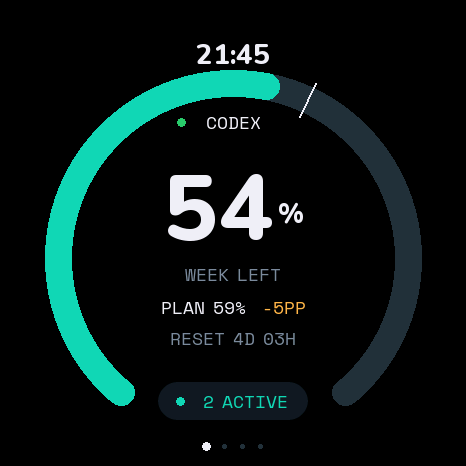
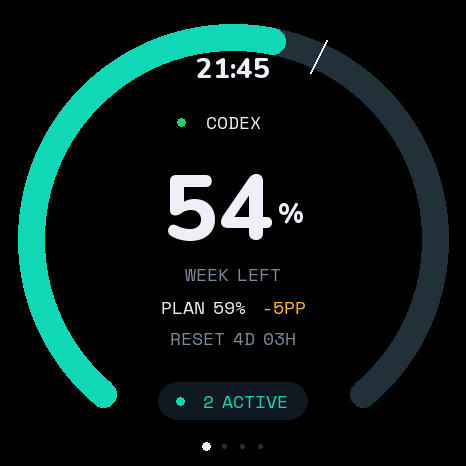
fix: keep clock inside quota arc

Changed region(s): [[0.03, 0.03, 0.9614, 0.8712]]

diff --git a/Tests/TokenLinkDeviceTests/WatchFaceStateTests.swift b/Tests/TokenLinkDeviceTests/WatchFaceStateTests.swift
@@ -19,7 +19,8 @@ private func faceStateWindow(
   _ id: String,
   label: String,
   remaining: Double,
-  resetsAt: Date? = nil
+  resetsAt: Date? = nil,
+  durationSeconds: Int? = nil
 ) -> QuotaWindow {
   QuotaWindow(
     id: id,
@@ -28,7 +29,8 @@ private func faceStateWindow(
     remainingPercent: remaining,
     remainingCount: nil,
     limitCount: nil,
-    resetsAt: resetsAt)
+    resetsAt: resetsAt,
+    durationSeconds: durationSeconds)
 }
 
 @Test func canonicalFaceStatePreservesSemanticDataBeforeWireCaps() {
@@ -41,7 +43,9 @@ private func faceStateWindow(
           faceStateWindow("5h", label: "Five hours", remaining: 72),
           faceStateWindow("weekly", label: "Weekly", remaining: 61),
           faceStateWindow("monthly", label: "Monthly", remaining: 55),
-          faceStateWindow("custom", label: "Custom", remaining: 40),
+          faceStateWindow(
+            "custom", label: "Custom", remaining: 40,
+            durationSeconds: 12 * 3_600),
         ]),
       faceStateSnapshot(
         .kimi,
@@ -60,7 +64,7 @@ private func faceStateWindow(
   #expect(state.providers[0].windows[0].label == "Five hours")
   #expect(state.providers[0].windows[0].durationSeconds == 5 * 3_600)
   #expect(state.providers[0].windows[1].durationSeconds == 7 * 86_400)
-  #expect(state.providers[0].windows[3].durationSeconds == nil)
+  #expect(state.providers[0].windows[3].durationSeconds == 12 * 3_600)
   #expect(state.workItems[0].state == .needsInput)
   #expect(state.workItems[0].latest)
   #expect(state.workItems[0].seen)

diff --git a/Sources/TokenLinkCore/QuotaModels.swift b/Sources/TokenLinkCore/QuotaModels.swift
@@ -15,6 +15,9 @@ public struct QuotaWindow: Codable, Equatable, Identifiable, Sendable {
   public let remainingCount: Double?
   public let limitCount: Double?
   public let resetsAt: Date?
+  /// Authoritative cycle length when the provider exposes it. Consumers may
+  /// fall back to a known window ID only when this metadata is unavailable.
+  public let durationSeconds: Int?
 
   public init(
     id: String,
@@ -23,7 +26,8 @@ public struct QuotaWindow: Codable, Equatable, Identifiable, Sendable {
     remainingPercent: Double,
     remainingCount: Double?,
     limitCount: Double?,
-    resetsAt: Date?
+    resetsAt: Date?,
+    durationSeconds: Int? = nil
   ) {
     self.id = id
     self.label = label
@@ -32,6 +36,7 @@ public struct QuotaWindow: Codable, Equatable, Identifiable, Sendable {
     self.remainingCount = remainingCount
     self.limitCount = limitCount
     self.resetsAt = resetsAt
+    self.durationSeconds = durationSeconds.flatMap { $0 > 0 ? $0 : nil }
   }
 }
 

diff --git a/Tests/TokenLinkProviderTests/CodexProviderTests.swift b/Tests/TokenLinkProviderTests/CodexProviderTests.swift
@@ -51,11 +51,13 @@ private actor FakeAppServerTransport: AppServerTransport {
   let current = try CodexRateLimitParser.parse(
     data: Fixture.load("codex-rate-limits.json"), fetchedAt: now)
   #expect(current.windows[0].remainingPercent == 82)
+  #expect(current.windows[0].durationSeconds == 7 * 86_400)
   let legacyData = Data(
     #"{"id":1,"result":{"rateLimits":{"limitId":"codex","primary":{"usedPercent":32,"resetsAt":1787616000}}}}"#
       .utf8)
   let legacy = try CodexRateLimitParser.parse(data: legacyData, fetchedAt: now)
   #expect(legacy.windows[0].remainingPercent == 68)
+  #expect(legacy.windows[0].durationSeconds == nil)
 }
 
 @Test func rejectsLegacyCodexBucketWithDifferentLimitID() {

diff --git a/Sources/TokenLinkProviders/Codex/CodexRateLimitParser.swift b/Sources/TokenLinkProviders/Codex/CodexRateLimitParser.swift
@@ -27,7 +27,10 @@ public enum CodexRateLimitParser {
           remainingPercent: 100 - window.usedPercent,
           remainingCount: nil,
           limitCount: nil,
-          resetsAt: Date(timeIntervalSince1970: window.resetsAt))
+          resetsAt: Date(timeIntervalSince1970: window.resetsAt),
+          durationSeconds: window.windowDurationMins.flatMap {
+            $0 > 0 ? Int($0 * 60) : nil
+          })
       ],
       source: .localAppServer,
       fetchedAt: fetchedAt)
@@ -61,4 +64,5 @@ private struct CodexLimit: Decodable {
 private struct CodexWindow: Decodable {
   let usedPercent: Double
   let resetsAt: Double
+  let windowDurationMins: Double?
 }

diff --git a/Sources/TokenLinkDevice/WatchFaceState.swift b/Sources/TokenLinkDevice/WatchFaceState.swift
@@ -43,7 +43,8 @@ public struct WatchFaceProviderState: Equatable, Sendable {
           label: window.label,
           remainingPercent: window.remainingPercent,
           resetsAt: window.resetsAt,
-          durationSeconds: FairPace.duration(for: window.id).map(Int.init))
+          durationSeconds: window.durationSeconds
+            ?? FairPace.duration(for: window.id).map(Int.init))
       })
   }
 }

diff --git a/firmware/stopwatch-c152/include/WatchFaceUi.h b/firmware/stopwatch-c152/include/WatchFaceUi.h
@@ -88,12 +88,12 @@ constexpr int kCenterY = 233;
 constexpr int kSessionRowY = 122;
 constexpr int kSessionRowHeight = 94;
 
-// Keep the quota horseshoe clear of the clock at the top of the round screen.
-// The dedicated center also lets the rest of the watch face keep using the
-// physical display center for overlays and page layouts.
-constexpr int kHomeArcCenterY = 258;
-constexpr int kHomeArcOuterRadius = 188;
-constexpr int kHomeArcInnerRadius = 162;
+// The quota horseshoe is the outer frame of the watch face. Its dedicated
+// center keeps it close to the display edge while leaving the physical center
+// available to the rest of the UI.
+constexpr int kHomeArcCenterY = 239;
+constexpr int kHomeArcOuterRadius = 215;
+constexpr int kHomeArcInnerRadius = 189;
 constexpr int kHomeSessionPillLeft = 158;
 constexpr int kHomeSessionPillTop = 382;
 constexpr int kHomeSessionPillWidth = 150;
@@ -611,7 +611,7 @@ void renderHome(Surface& surface, const State& state,
   // Draw the clock after both arc layers so the numerals remain crisp when the
   // actual quota crosses the 12 o'clock region.
   surface.loadFont(dashboard::font_data::kNunitoDigits28Vlw);
-  dashboard::centered(surface, clock, kCenterX, 54, dashboard::kText);
+  dashboard::centered(surface, clock, kCenterX, 68, dashboard::kText);
   surface.unloadFont();
   surface.fillCircle(181, 122, 4, syncColor(surface, state.sync));
   drawHomeSessionPill(surface, store);
